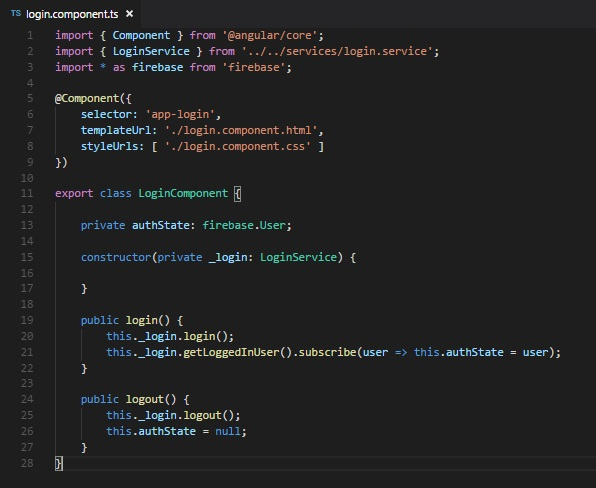
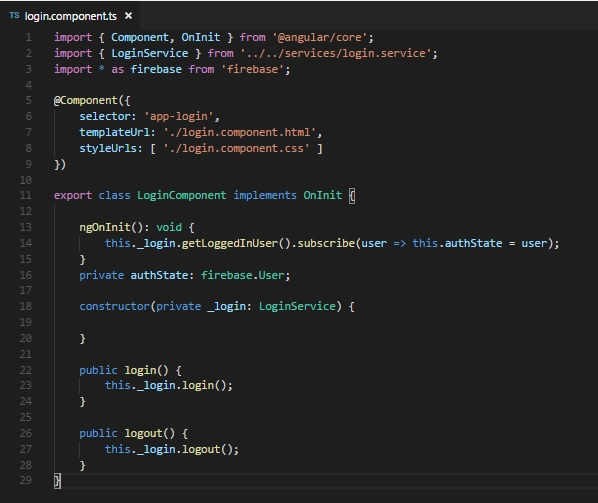
fix(l26): subscription is implemented correctly. coteacher is silly

diff --git a/26-login-component.html b/26-login-component.html
@@ -29,25 +29,29 @@
     </div>
     <h4>Side note:</h4>
     <p>We did not make this an observable because we are going to execute the .subscribe in our login method. If you are taking the Async Pipe Challenge (it's the hottest thing these days), then we will need to change the type since we wouldn't be doing the .subscribe. That's all I will give you for the challenge, refer to the async pipe lesson if you need it.</p>
-    <h3>Our Login Method</h3>
-    <p>The first part should be easy. We simply need to call the login method from our service that we created. We gave injected our login service via the <b>_login</b> variable. Now we can call our login method by simply calling <b>this._login.login()</b>.</p>
-    <p>But that's not all. We want to get the login information after we logged in. We have a variable that can hold the result, all be have to do is subscribe to the result and assign it to our variable. Here's the end result:</p>
+    <h3>Getting our User Info</h3>
+    <p>The first thing we are going to set up is our subscription to our user information. We want to subscribe to this as soon as the component loads. Because this is a subscription, if there are any changes to our authstate such as logging in and out, it will update automatically. Let's create an ngOnInit if you haven't done so already:</p>
     <div class="codebox">
-        <p>public login() {</p>
-        <p class="ind1">this._login.login()</p>
+        <p>ngOnInit() {</p>
         <p class="ind1">this._login.getLoggedInUser().subscribe(user => this.authState = user);</p>
         <p>}</p>
     </div>
-    <p>That subscribe line may look a litte weird; I called the loggedInUser method we created. Since it returns an observable I have to subscribe to it in order to get the results. Inside I used shorthand for the phat arrow notation to pass the result as the variable <i>user</i> and then assign that to our variable <i>this.authState</i></p>
+    <p>I'm using arrow notation shorthand here: I take the result of the subscription, pass it as the variable <i>user</i> and then throw it into our variable <i>this.authState.</i></p>
+    <p>If you didn't previously have an <i>ngOnInit</i>, remember you will need to import it up top as a part of <b>@angular/core</b> and you will need to add the <b>implements OnInit</b> after your class declaration.</p>
     <h3>Introduction to async shenanigans</h3>
-    <p>One important thing to go over here briefly is that our login and the getting of our login user are happening <b>asynchronously</b>. This means that our code is not waiting for one line to finish to go over to the next. Initially, I had believed that this would cause a problem because the app my try to get a loggedInUser before the login has actually completed. To my surprise, it worked anyway. I was anticipating having to use newer tools such as <b>async and await</b>.</p>
-    <p>But there is one excellent way to demonstrate how this problem can occur. Once we get our login buttons logging in, I will demonstrate this.</p>
+    <p>One important thing to go over here briefly is that our login and the getting of our login user are happening <b>asynchronously</b>. This means that our code is not waiting for one line to finish to go over to the next. Fortunately we are running our subscription in our OnInit and we aren't immediately calling that data anywhere else. But sometimes when dealing with asynchronous code, you will run into some shenanigans. I will explain them later.</p>
+    <h3>Our Login Method</h3>
+    <p>The first part should be easy. We simply need to call the login method from our service that we created. We gave injected our login service via the <b>_login</b> variable. Now we can call our login method by simply calling <b>this._login.login()</b>.</p>
+    <div class="codebox">
+        <p>public login() {</p>
+        <p class="ind1">this._login.login()</p>
+        <p>}</p>
+    </div>
     <h3>Time to logout</h3>
-    <p>So we have a method for logging in, but now we need one to log out. Just like before, we can call the logout method from our service quite easily. We would also need to empty out our authstate variable since we won't have a logged in user, so we can set it to null.</p>
+    <p>So we have a method for logging in, but now we need one to log out. Just like before, we can call the logout method from our service quite easily. We do not need to change out authState to null manually here, that's the power of subscriptions. When someone logs out, that user information will change, and that change will trigger the code for anyone who is subscribed to it. Since we are subscribed, and we updated our variable inside our subscription, it will update on its own.</p>
     <div class="codebox">
         <p>public logout() {</p>
         <p class="ind1">this._login.logout();</p>
-        <p class="ind1">this.authState = null;</p>
         <p></p>
     </div>
     <p>Easy enough. So we have our login methods, now we just need to make a click event inside our html to actually login:</p>
@@ -102,7 +106,8 @@
         <p>You said you would go back to that async business...</p>
     </div>
     <h3>The async problem in action</h3>
-    <p>I sure did. Remember how I mentioned earlier that the subscription to our authState is happening asynchronously. This means that it is not waiting for that code to finish before executing the next line of code. For example, let's say we wanted to console log our authState so we can see what we are working with like we mentioned before. Let's say I entered the code like this:</p>
+    <p>I sure did. Remember how I mentioned earlier that the subscription to our authState is happening asynchronously. This means that it is not waiting for that code to finish before executing the next line of code. For example, let's say we did not subscribe in our OnInit, and instead subscribed when we logged in, and then wanted to console log our authState so we can see what we are working with like we mentioned before. Let's say I entered the code like this:</p>
+    <h4>You don't have to edit your code to fit this example. If you do, please make sure to change it back.</h4>
     <img src="img/26-async-login.jpg" alt="async login example 1">
     <p>After we execute our subscribe, we console log out our user. Makes sense looking at it, right? But look at the console.log result:</p>
     <img src="img/26-async-console.jpg" alt="async console example 1">
@@ -121,6 +126,9 @@
     <h4>Some more challenges if you want extra work (and I know you do)</h4>
     <p>Tryout the Async Pipe Challenge and see if you can get the user info display with the <b>| async</b> pipe in your html. Don't forget that this will require adjusting some things in your ts.</p>
     <p>If thats not enough, try using <b>.pipe</b> and <b>map</b> from rxjs to shrink that huge object we're getting from google into a smaller object that only contains the data we want.</p>
+    <p>Here's a screenshot of our login component:</p>
+    <h4>I made an update to the lesson on 5/18 at 5:00pm. I previously implemented the login subscription incorrectly. My apologies.</h4>
+    <img src="img/26-login-component.jpg" alt="login component ss">
     <footer>
         <a href="25-login-service.html">&lt;&lt; 25 - Login Service</a>
         <a href="index.html">Back to list</a>

diff --git a/index.html b/index.html
@@ -93,6 +93,7 @@
                     <li>Let's use that service in our Login Component</li>
                 </a>
             </ol>
+            <p>NOTE: Lesson 26 has been updated. I made a boo-boo while explaining where to put a subscription. It has since been updated.</p>
         </main>
         <footer>
             <p>Class taught by Josh Dunlavy, co-taught by J.R. Ruggiero</p>
